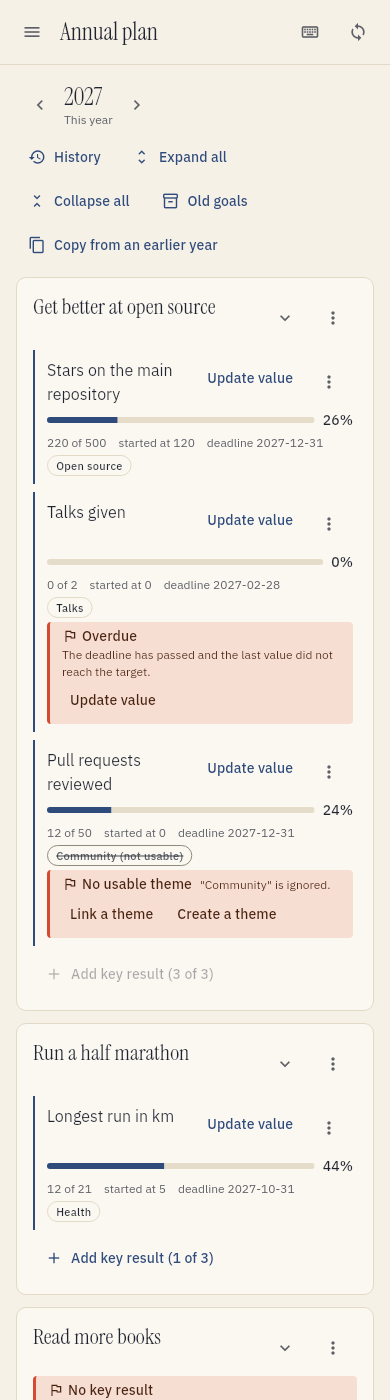
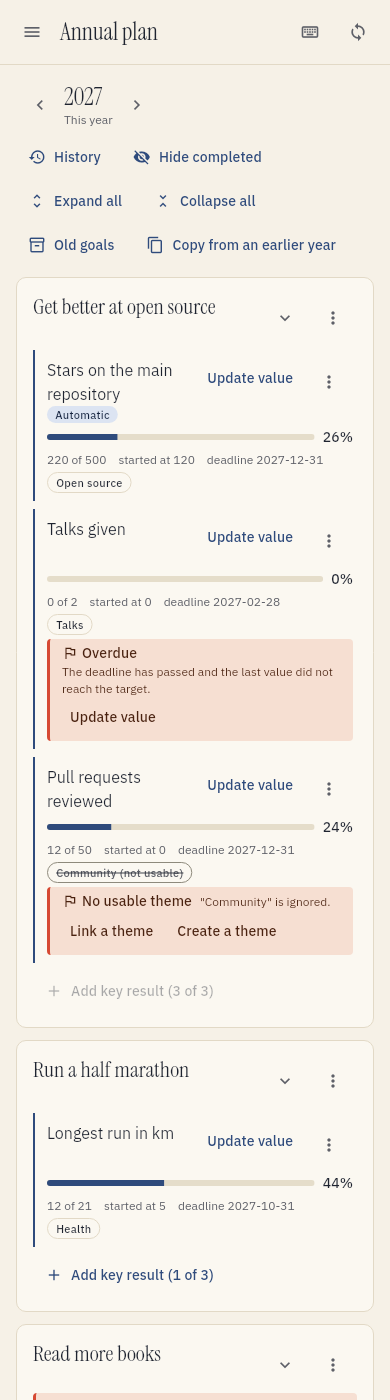
Hide completed key results in the annual plan

diff --git a/frontend/lib/features/annual/goal_card.dart b/frontend/lib/features/annual/goal_card.dart
@@ -20,6 +20,7 @@ class GoalCard extends StatefulWidget {
     required this.goal,
     required this.actions,
     required this.collapsed,
+    required this.hideCompleted,
     required this.onToggleCollapsed,
     super.key,
   });
@@ -32,6 +33,9 @@ class GoalCard extends StatefulWidget {
 
   /// True when the key results are hidden.
   final bool collapsed;
+
+  /// True when the key results that reached their target are left out.
+  final bool hideCompleted;
 
   /// Shows or hides the key results.
   final VoidCallback onToggleCollapsed;
@@ -53,7 +57,11 @@ class _GoalCardState extends State<GoalCard> {
     final text = Theme.of(context).textTheme;
     final scheme = Theme.of(context).colorScheme;
     final quiet = text.bodySmall?.copyWith(color: scheme.onSurfaceVariant);
-    final active = g.activeKeyResults;
+    final allActive = g.activeKeyResults;
+    final completed = allActive.where((kr) => kr.met).toList();
+    final active = widget.hideCompleted
+        ? allActive.where((kr) => !kr.met).toList()
+        : allActive;
     return Container(
       key: Key('goal-${g.id}'),
       margin: const EdgeInsets.only(bottom: Space.md),
@@ -92,7 +100,7 @@ class _GoalCardState extends State<GoalCard> {
                   itemBuilder: (_) => [
                     const PopupMenuItem(
                         value: 'edit', child: Text('Edit goal')),
-                    if (active.isNotEmpty)
+                    if (allActive.isNotEmpty)
                       const PopupMenuItem(
                         value: 'themes',
                         child: Text('Link a theme to all key results'),
@@ -113,7 +121,7 @@ class _GoalCardState extends State<GoalCard> {
               onAction: (_) => _add(),
               allowed: a.editable ? null : const {},
             ),
-          if (g.criteriaSuggestion != null && active.isEmpty)
+          if (g.criteriaSuggestion != null && allActive.isEmpty)
             Padding(
               padding: const EdgeInsets.only(top: Space.sm),
               child: Wrap(
@@ -144,13 +152,13 @@ class _GoalCardState extends State<GoalCard> {
             Padding(
               padding: const EdgeInsets.only(top: Space.xs),
               child: Text(
-                active.isEmpty
+                allActive.isEmpty
                     ? 'No key results'
-                    : '${active.where((kr) => kr.met).length} of '
-                        '${active.length} '
-                        '${active.length == 1 ? 'key result' : 'key results'} '
+                    : '${completed.length} of '
+                        '${allActive.length} '
+                        '${allActive.length == 1 ? 'key result' : 'key results'} '
                         'completed · '
-                        '${active.where((kr) => !kr.met).length} pending',
+                        '${allActive.where((kr) => !kr.met).length} pending',
                 key: Key('goal-collapsed-${g.id}'),
                 style: quiet,
               ),
@@ -160,6 +168,17 @@ class _GoalCardState extends State<GoalCard> {
               const SizedBox(height: Space.sm),
               KeyResultTile(kr: kr, actions: a),
             ],
+            if (widget.hideCompleted && completed.isNotEmpty)
+              Padding(
+                padding: const EdgeInsets.only(top: Space.sm),
+                child: Text(
+                  '${completed.length} completed '
+                  '${completed.length == 1 ? 'key result' : 'key results'} '
+                  'hidden.',
+                  key: Key('goal-hidden-${g.id}'),
+                  style: quiet,
+                ),
+              ),
             for (final kr in g.retiredKeyResults) ...[
               const SizedBox(height: Space.xs),
               RetiredKeyResultRow(kr: kr, actions: a),
@@ -169,16 +188,16 @@ class _GoalCardState extends State<GoalCard> {
               Align(
                 alignment: Alignment.centerLeft,
                 child: Tooltip(
-                  message: active.length >= 3
+                  message: allActive.length >= 3
                       ? keyResultLimitMessage
                       : 'Add a key result',
                   child: TextButton.icon(
                     key: Key('add-kr-${g.id}'),
-                    onPressed: active.length >= 3 ? null : _add,
+                    onPressed: allActive.length >= 3 ? null : _add,
                     icon: const Icon(Icons.add, size: 18),
-                    label: Text(active.isEmpty
+                    label: Text(allActive.isEmpty
                         ? 'Add key result'
-                        : 'Add key result (${active.length} of 3)'),
+                        : 'Add key result (${allActive.length} of 3)'),
                   ),
                 ),
               ),

diff --git a/frontend/test/features/annual/annual_screen_test.dart b/frontend/test/features/annual/annual_screen_test.dart
@@ -311,4 +311,34 @@ void main() {
     expect(find.byKey(const Key('kr-kr1')), findsOneWidget);
     expect(find.byKey(const Key('kr-kr3')), findsOneWidget);
   });
+
+  testWidgets('completed key results can be hidden from every goal',
+      (tester) async {
+    final server = AnnualServer(goals: [
+      annualGoalJson('g1', 'Get fit', keyResults: [
+        keyResultJson('kr1', 'Runs', current: 10),
+        keyResultJson('kr2', 'Push-ups', current: 0),
+      ]),
+      annualGoalJson('g2', 'Read more', keyResults: [
+        keyResultJson('kr3', 'Books', current: 5),
+      ]),
+    ]);
+    await pumpAnnual(tester, server.routes());
+    expect(find.byKey(const Key('kr-kr1')), findsOneWidget);
+    expect(find.byKey(const Key('kr-kr2')), findsOneWidget);
+    expect(find.byKey(const Key('kr-kr3')), findsOneWidget);
+
+    await tapKey(tester, 'toggle-completed-goals');
+    expect(find.byKey(const Key('kr-kr1')), findsNothing);
+    expect(find.byKey(const Key('kr-kr2')), findsOneWidget);
+    expect(find.byKey(const Key('kr-kr3')), findsOneWidget);
+    expect(find.byKey(const Key('goal-hidden-g1')), findsOneWidget);
+    expect(find.byKey(const Key('goal-hidden-g2')), findsNothing);
+    expect(find.text('Show completed'), findsOneWidget);
+
+    await tapKey(tester, 'toggle-completed-goals');
+    expect(find.byKey(const Key('kr-kr1')), findsOneWidget);
+    expect(find.byKey(const Key('goal-hidden-g1')), findsNothing);
+    expect(find.text('Hide completed'), findsOneWidget);
+  });
 }

diff --git a/frontend/lib/features/annual/annual_screen.dart b/frontend/lib/features/annual/annual_screen.dart
@@ -42,6 +42,7 @@ class _AnnualScreenState extends ConsumerState<AnnualScreen> {
   late int _year;
   final Set<int> _seedDismissed = {};
   final Set<String> _collapsedGoals = {};
+  bool _hideCompleted = false;
   bool _seedOpen = false;
   String? _error;
 
@@ -284,6 +285,15 @@ class _AnnualScreenState extends ConsumerState<AnnualScreen> {
           ),
           if (plan.goals.isNotEmpty)
             TextButton.icon(
+              key: const Key('toggle-completed-goals'),
+              onPressed: () => setState(() => _hideCompleted = !_hideCompleted),
+              icon: Icon(
+                  _hideCompleted ? Icons.visibility : Icons.visibility_off,
+                  size: 18),
+              label: Text(_hideCompleted ? 'Show completed' : 'Hide completed'),
+            ),
+          if (plan.goals.isNotEmpty)
+            TextButton.icon(
               key: const Key('expand-all-goals'),
               onPressed: () => setState(() => _collapsedGoals.clear()),
               icon: const Icon(Icons.unfold_more, size: 18),
@@ -385,6 +395,7 @@ class _AnnualScreenState extends ConsumerState<AnnualScreen> {
                       goal: g,
                       actions: actions,
                       collapsed: _collapsedGoals.contains(g.id),
+                      hideCompleted: _hideCompleted,
                       onToggleCollapsed: () => setState(() {
                         if (!_collapsedGoals.remove(g.id)) {
                           _collapsedGoals.add(g.id);

diff --git a/docs/user/annual-planning.md b/docs/user/annual-planning.md
@@ -53,6 +53,9 @@ read why. Retire a key result to free a place.
 Choose the arrow next to a goal to hide or show its key results. A hidden goal shows how many key
 results are completed and how many are still pending. Use Expand all or Collapse all above the goals to change every goal at once.
 
+Choose Hide completed above the goals to leave the key results that reached their target out of
+every goal card. The card says how many are hidden. Choose Show completed to show them again.
+
 ## Link theme projects
 
 A key result can serve one or more theme projects. A theme can serve more than one key result.
